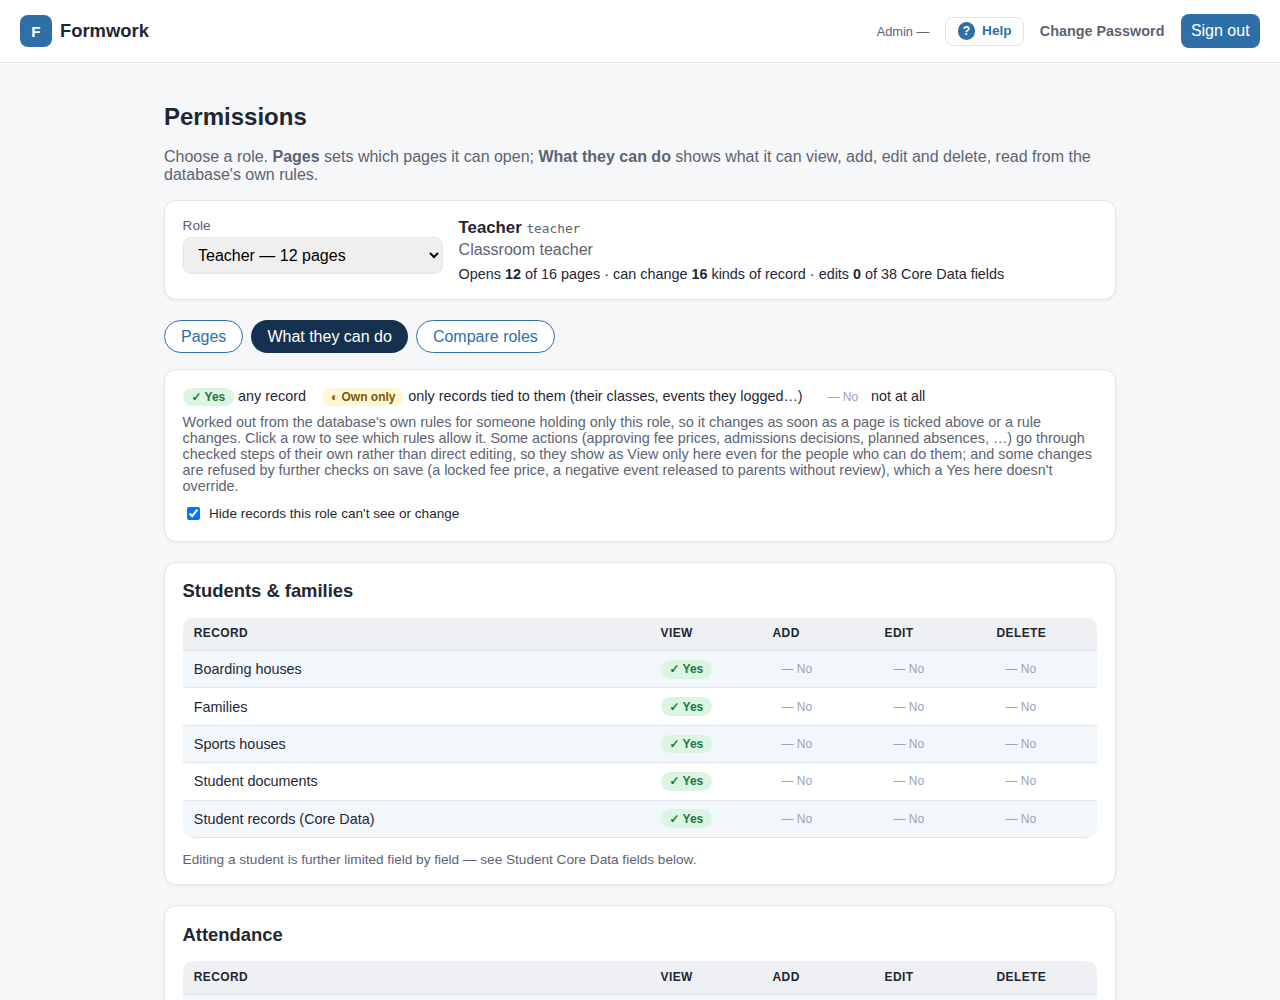
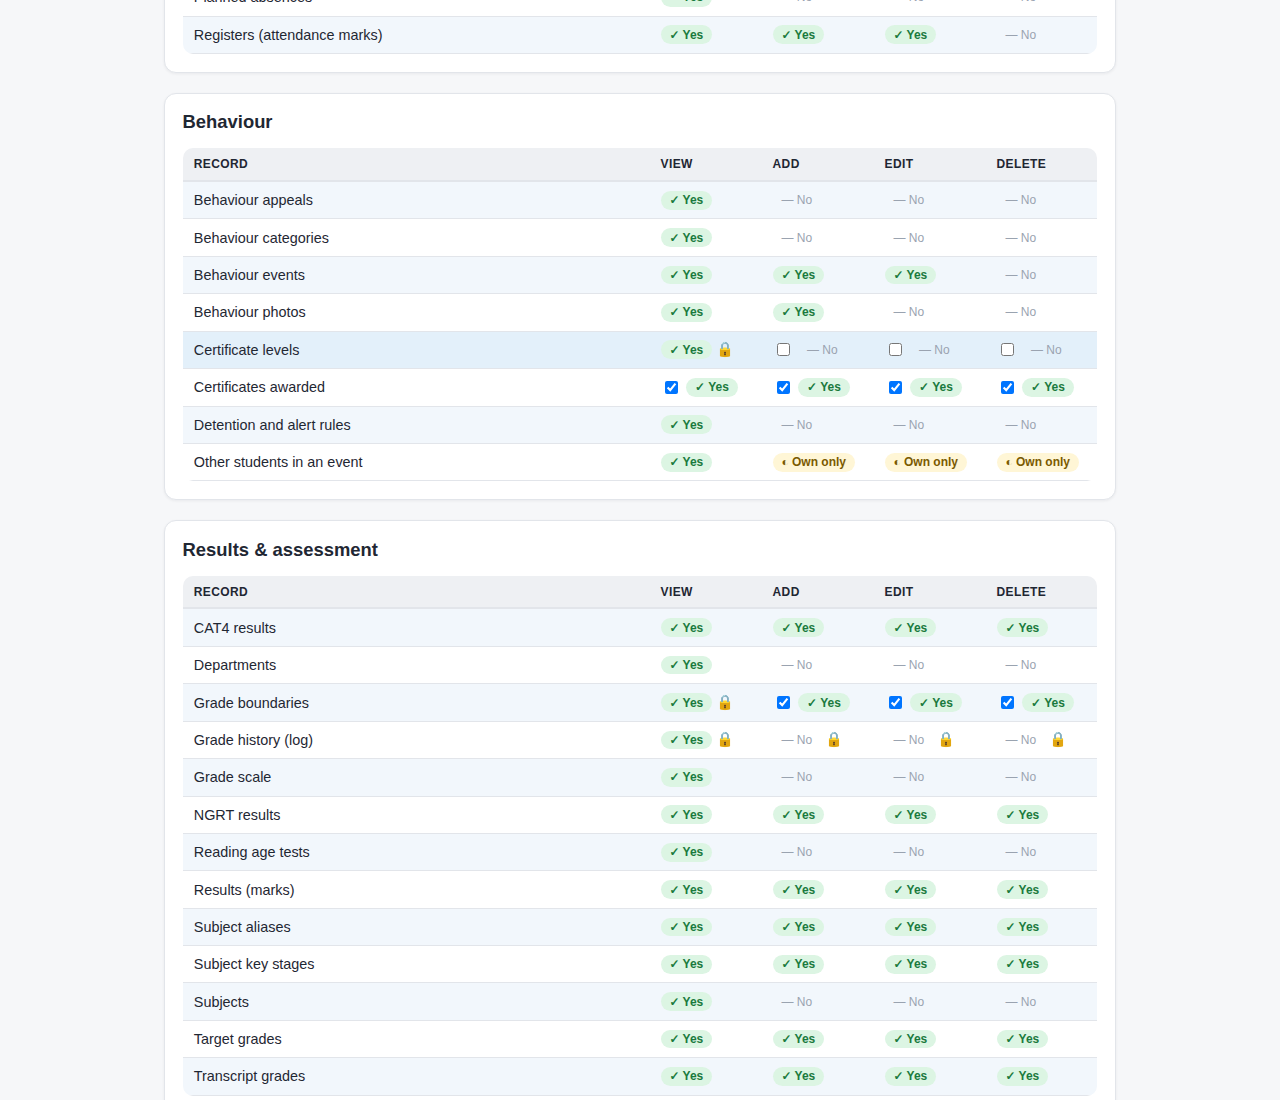
Docs: stage 1 tickable abilities in the FS and User Manual; known issue 32 fixed
Snapshots re-exported from the living docs: FR-1.13 (tick boxes, padlocks,
safeguards), FR-7.8 (only assessment managers edit grade boundaries), known
issue 32 marked Fixed; the manual's permissions section and screenshot
(invented data) show the tick boxes.

Claude-Session: https://claude.ai/code/session_019AJy98VKxLGfGH28vDcPZz

diff --git a/docs/FUNCTIONAL_SPEC.md b/docs/FUNCTIONAL_SPEC.md
@@ -8,7 +8,7 @@ Sep 29, 2026 · @Chris TERRY
 
 ## 1. Purpose and scope
 
-This specification describes what Formwork does as built on 2 October 2026 (database migrations up to 328). It is written from the live system and its code, not from a plan, so it is a record of current behaviour, not a wish list.
+This specification describes what Formwork does as built on 2 October 2026 (database migrations up to 329). It is written from the live system and its code, not from a plan, so it is a record of current behaviour, not a wish list.
 
 **Formwork** is the school management information system (MIS) for Adorable British College, a boarding and day secondary school of about 260 students in Years 7–12. It is used by staff, students and parents at misform.work.
 
@@ -112,6 +112,7 @@ Only Formwork creates logins; nobody can create their own account, by email or b
 - **FR-1.10** Every server route except the parents' calendar feed (FR-1.11) checks the caller's sign-in and page access before doing anything, and the build fails if one doesn't. Backup is admin-only whatever the permissions page says. \[DB + build check\]
 - **FR-1.11** One route works without sign-in: the parents' calendar feed (/api/calendar-feed/…), because calendar apps can't sign in. Each parent's secret link is the check instead, and the build check lists this route as its only exception. It returns only the events parents see on their calendar page, and nothing once none of the parent's children is still at the school. Agreed by the principal, 30 Sept 2026 (migration 274). \[DB + build check\]
 - **FR-1.12** /admin/permissions shows each role three ways (migration 327, 2 Oct 2026). **Pages**: which pages it opens, ticked by section. **What they can do**: for each kind of record, whether the role can view, add, edit and delete it: Yes (any record), Own only (records tied to the person, such as their classes) or No, with the rule names behind each answer. It is worked out live from the database's own rules for someone holding only that role, so it changes as soon as a page is ticked or a rule changes. Actions done through checked steps (fee approvals, admissions decisions, planned absences) show as View only, and checks made on saving aren't shown. **Compare roles**: every page against every role. Only admins can change page access and the student Core Data field grants; the database rules themselves can't be changed from the app. \[Page; rules read from DB\]
+- **FR-1.13** Some abilities are tick boxes on "What they can do" (migration 329, 3 Oct 2026; stage 1 of docs/role-abilities-design.md): certificates and certificate levels, the seven sick-bay tables, the BMI reference table and grade boundaries. They start as each role's access before the change, except grade boundaries. Only admins can tick or untick. Before a change saves, the page names the people who would gain or lose it. Admin can't remove its own access to permissions, and every tick and untick is logged in Change History under access. Other areas become tickable stage by stage. Some cells have a padlock and can't be ticked by anyone, admin included; they change only by a database change the principal agrees: only the school office adds students; Grade History and Change History can't be edited, and who reads them is fixed; fee prices and price changes need the principal and the college secretary; certificate levels, the BMI table and grade boundaries are readable by everyone signed in. Parents never seeing homework marks or other students' names in behaviour events is not a staff tick at all. \[DB\]
 
 ## 5. FR-2 Students, parents and portals
 
@@ -382,7 +383,7 @@ Teachers enter percentage scores for their own classes against result sets; each
 
 **Boundaries, subjects and targets**
 
-- **FR-7.8** Grade boundaries are set per subject and per year group (7–12). Any member of staff can edit boundaries, subject aliases and key-stage tags (school decision, 27 Sept 2026). Years 10 and 11 follow Cambridge IGCSE's June 2026 grade thresholds (migration 322, the principal, 2 Oct 2026) in 17 subjects, among them Maths, English, the sciences, Computing, Economics, the languages, Art, PE, Geography and History: time-zone variant 3, the Extended route, each threshold turned into a percentage of the route's total and rounded up. Below the lowest grade is U; Extended Maths and Further Maths stop at E. Years 7–9 keep 90/80/70…, Year 12 (WAEC) is unchanged, and saved results keep their grade. \[DB\]
+- **FR-7.8** Grade boundaries are set per subject and per year group (7–12). Only assessment managers can edit boundaries (the principal, 3 Oct 2026, migration 329; until then any member of staff could), as a tick admins can change (FR-1.13); everyone signed in can read them. Any member of staff can edit subject aliases and key-stage tags (school decision, 27 Sept 2026). Years 10 and 11 follow Cambridge IGCSE's June 2026 grade thresholds (migration 322, the principal, 2 Oct 2026) in 17 subjects, among them Maths, English, the sciences, Computing, Economics, the languages, Art, PE, Geography and History: time-zone variant 3, the Extended route, each threshold turned into a percentage of the route's total and rounded up. Below the lowest grade is U; Extended Maths and Further Maths stop at E. Years 7–9 keep 90/80/70…, Year 12 (WAEC) is unchanged, and saved results keep their grade. \[DB\]
 - **FR-7.9** One target grade per student per subject, on the IGCSE (A\*–U) or WAEC scale. Assessment managers and admins set and delete targets; assessment users set but can't delete. \[DB\]
 - **FR-7.10** A subject with no target of its own borrows one from a related subject (e.g. Further Maths from Maths). Portals show targets only for subjects the student takes. /target-grades/coverage lists students missing a target. \[DB / Page\]
 - **FR-7.11** Grades are compared with targets as above, on or below (green, amber, red). No comparison is made across IGCSE and WAEC. \[Page\]
@@ -583,7 +584,7 @@ SMT own the calendar and terms; admins own setup, imports, permissions and backu
 | /admin/class-lists | Print class rosters by year, subject or class | HR, school office, admin |
 | /admin/bell-times | Sessions and times for each weekday | Admin |
 | /admin/subject-settings | Subject display names, departments, key stages, aliases, target fallback | Assessment manager, admin |
-| /admin/grade-boundaries | Grade cut-offs per subject and year group | Assessment manager, admin (page); all staff (data) |
+| /admin/grade-boundaries | Grade cut-offs per subject and year group | Assessment manager, admin (page); assessment managers edit (data) |
 | /admin/email-replies | Reply-To for each kind of email | SMT, admin |
 | /admin/tile-order | Order of students' big tiles and of every row of the staff dashboard, school-wide | Admin (all signed-in users read it) |
 | /groups | Student groups: make, build from a rule, change, archive, message | SMT, pastoral, school office, admin (teachers look up only) |
@@ -696,7 +697,7 @@ Formwork keeps a permanent record of every sensitive change: who made it, when, 
 
 | Record | What it keeps | Where to see it | Who can see it | Working today |
 | --- | --- | --- | --- | --- |
-| Change History | Registers (changes and deletions, and planned absences), fees and prices, fee approvals, academic years, behaviour events, the other students in serious events, thresholds and certificate levels, roles, permissions and logins, parent links, email settings, admissions, student groups (the group, its students and its staff), student records (every student added, changed or deleted; the photo is noted as changed but not copied), school reading tests (added, changed or removed) | /admin/change-history: filter by dates, area, student, person and action; latest 500; CSV download | SMT, admin | Yes |
+| Change History | Registers (changes and deletions, and planned absences), fees and prices, fee approvals, academic years, behaviour events, the other students in serious events, thresholds and certificate levels, roles, permissions, ability ticks and logins, parent links, email settings, admissions, student groups (the group, its students and its staff), student records (every student added, changed or deleted; the photo is noted as changed but not copied), school reading tests (added, changed or removed) | /admin/change-history: filter by dates, area, student, person and action; latest 500; CSV download | SMT, admin | Yes |
 | Grade History | Every score, target, transcript grade, homework grade and student group mark entered, changed or deleted, with old and new grade. Homework grades and group marks are hidden unless chosen, and only SMT and admins can read them | /assessments/grade-history: filter by dates, student, person, grade and action; flags where the person signed in differs from the teacher on the record; latest 500; CSV download | SMT, assessment managers, admin | Yes |
 | Fee price proposals | Each proposal, who made it, both approvals or the reason for rejecting | /bursar/fee-approvals | Bursar, SMT, principal, college secretary | Yes |
 | Charge batches | The last 100 group charges and who made them | /bursar/audit, with undo | Bursar | Yes |
@@ -830,7 +831,7 @@ The database, not the browser, decides who someone is and what they may do; sens
 
 ## 23. Known issues and open decisions
 
-32 places where Formwork does not behave as its pages suggest, or where a rule is weaker than it looks; two of them (6 and 30) have since been fixed. The first five stop something working today.
+32 places where Formwork does not behave as its pages suggest, or where a rule is weaker than it looks; three of them (6, 30 and 32) have since been fixed. The first five stop something working today.
 
 | # | Area | Issue | Effect | Status |
 | --- | --- | --- | --- | --- |
@@ -865,7 +866,7 @@ The database, not the browser, decides who someone is and what they may do; sens
 | 29 | Fees | Record a Payment, All Students (/bursar/fees-table) and Add Paid Top-Up are written with styling classes the app never loads | The pages work but show as plain, unstyled text and form fields; found while taking screenshots for the User Manual | Open |
 | 30 | Registers | Planned absences skip only days marked as a holiday on the calendar. Mid-term breaks are a single date there (24 Oct, 13 Feb, 22 May), so an absence spanning one filled in the break days too. Fixed for 2026/27 on 2 Oct 2026: every weekday of the three breaks (26–30 Oct, 15–19 Feb, 24–28 May) is now a holiday on the calendar; later years' breaks need the same | Extra absence marks on days the school was closed | Fixed |
 | 31 | Parents | Some families have two or more parent records with the same email (from separate imports). A parent login is tied to one record, so a child linked only to the other record doesn't appear in the portal. Found 2 Oct 2026 when a parent saw "No linked children"; the 7 logins affected then were fixed by hand (one Francis IYIOKU link left off until the office confirms his guardian). Nothing stops a new case | A parent sees some or none of their children | Open |
-| 32 | Students | Any admin login could still add a student. Migration 275 left the office's rule as the only way in, but that rule's role check lets every admin through. Found 2 Oct 2026 by the Permissions page's new "What they can do" view. Migration 328 makes the rule check the school\_office role alone; it is written and waiting to be run in the SQL editor | FR-2.18 not enforced: admin alone can add students | Fixing |
+| 32 | Students | Any admin login could still add a student. Migration 275 left the office's rule as the only way in, but that rule's role check lets every admin through. Found 2 Oct 2026 by the Permissions page's new "What they can do" view. Migration 328 makes the rule check the school\_office role alone; run in the SQL editor on 2 Oct 2026, and admin alone can no longer add a student | FR-2.18 not enforced: admin alone can add students | Fixed |
 
 Choose "Decided: keep" for anything the school is happy to leave as it is.
 

diff --git a/docs/USER_MANUAL.md b/docs/USER_MANUAL.md
@@ -878,7 +878,7 @@ Each class's average grade against the average target of the same students, sort
 
 ### Grade boundaries (/admin/grade-boundaries)
 
-Grade cut-offs are set per subject and per year group (7–12). Years 7–11 use IGCSE (A\*–U); Year 12 uses WAEC (A1–F9). Choose the subject and year, edit the minimum and maximum score for each grade, or **Remove** a band. Any member of staff can edit boundaries (the school's decision); changes are not logged.
+Grade cut-offs are set per subject and per year group (7–12). Years 7–11 use IGCSE (A\*–U); Year 12 uses WAEC (A1–F9). Choose the subject and year, edit the minimum and maximum score for each grade, or **Remove** a band. Only assessment managers can edit boundaries (the principal, 3 Oct 2026); everyone else can view them. Changes are not logged.
 
 ![Grade boundaries for one subject and year](manual-images/33-boundaries.jpg)
 
@@ -1477,9 +1477,13 @@ Choose a role from the list at the top. Beside it you see what the role is for, 
 - **What they can do**: for each kind of record (registers, behaviour events, results, payments and so on), whether the role can **View**, **Add**, **Edit** and **Delete** it. **Yes** means any record, **Own only** means only records tied to the person (their own classes, events they logged), and **No** means not at all. Click a row to see the names of the database rules that allow it. This is read from the database itself, so it is always current: tick a page and any access that depends on it changes straight away. Below the table, give the role Read or Edit on each student Core Data field.
 - **Compare roles**: every page against every role in one grid, to check at a glance who can open what. Click a role's name to open it on the Pages tab.
 
-Only the Pages ticks and the student field settings can be changed here. The rules behind "What they can do" are set in the database; a few actions (approving fee prices, admissions decisions, planned absences) go through their own checked steps, so they show as View only even for the people who can do them.
+**Changing what a role can do.** Some records have tick boxes beside View, Add, Edit and Delete: certificates, certificate levels, the sick-bay records, the BMI table and grade boundaries for now, with more areas to follow. Tick or untick a box and Formwork lists the people who would gain or lose that ability, by name, before it saves; press **OK** to go ahead. Every change is kept in Change History.
 
-![Permissions: what the Teacher role can do](manual-images/120-permissions.png)
+A padlock (🔒) means the cell can't be changed here by anyone, admin included. These are the principal's own decisions: only the school office adds students; Grade History and Change History can't be edited; fee prices need the principal and the college secretary. Some things everyone signed in can read also have a padlock. Hover over the padlock to see why.
+
+Records without tick boxes are still set in the database. A few actions (approving fee prices, admissions decisions, planned absences) go through their own checked steps, so they show as View only even for the people who can do them.
+
+![Permissions: an assessment manager's abilities, with tick boxes and padlocks](manual-images/120-permissions.png)
 
 ### Staff and roles (/staff/roles)
 
